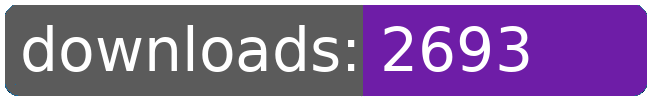
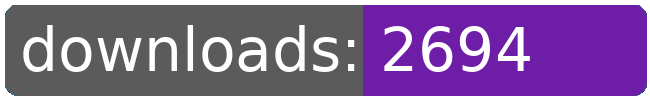
dl log written

Changed region(s): [[0.7692, 0.24, 0.8308, 0.72]]

diff --git a/README.md b/README.md
@@ -21,8 +21,8 @@
 		<td>2639</td>
 		<td>2662</td>
 		<td>2686</td>
-		<td>2693</td>
-		<td>+ 7</td>
+		<td>2694</td>
+		<td>+ 8</td>
 	</tr>
 	<tr>
 		<td>aberrant.kahet.outfitter</td>
@@ -252,8 +252,8 @@
 		<td></td>
 		<td></td>
 		<td></td>
-		<td>37461</td>
-		<td>83</td>
+		<td>37462</td>
+		<td>84</td>
 	</tr>
 </table>
 </sub></sup>
@@ -300,8 +300,8 @@
 		<td>2639</td>
 		<td>2662</td>
 		<td>2686</td>
-		<td>2693</td>
-		<td>+ 7</td>
+		<td>2694</td>
+		<td>+ 8</td>
 	</tr>
 	<tr>
 		<td>capture.archons</td>
@@ -509,8 +509,8 @@
 		<td></td>
 		<td></td>
 		<td></td>
-		<td>37461</td>
-		<td>83</td>
+		<td>37462</td>
+		<td>84</td>
 	</tr>
 </table>
 </sub></sup>
